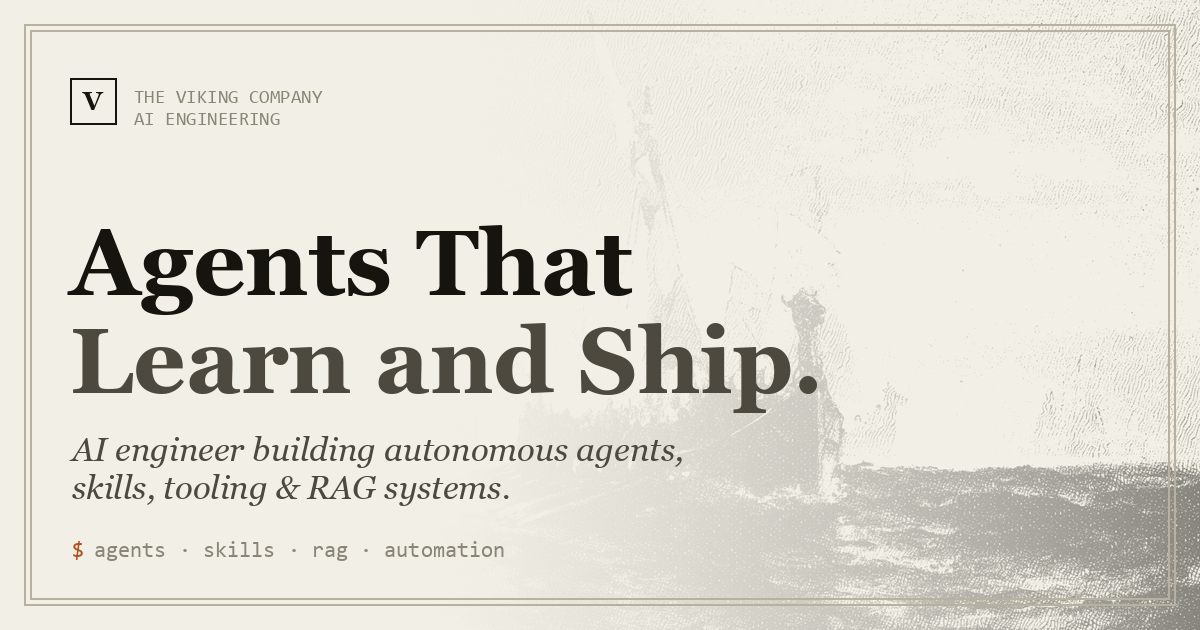
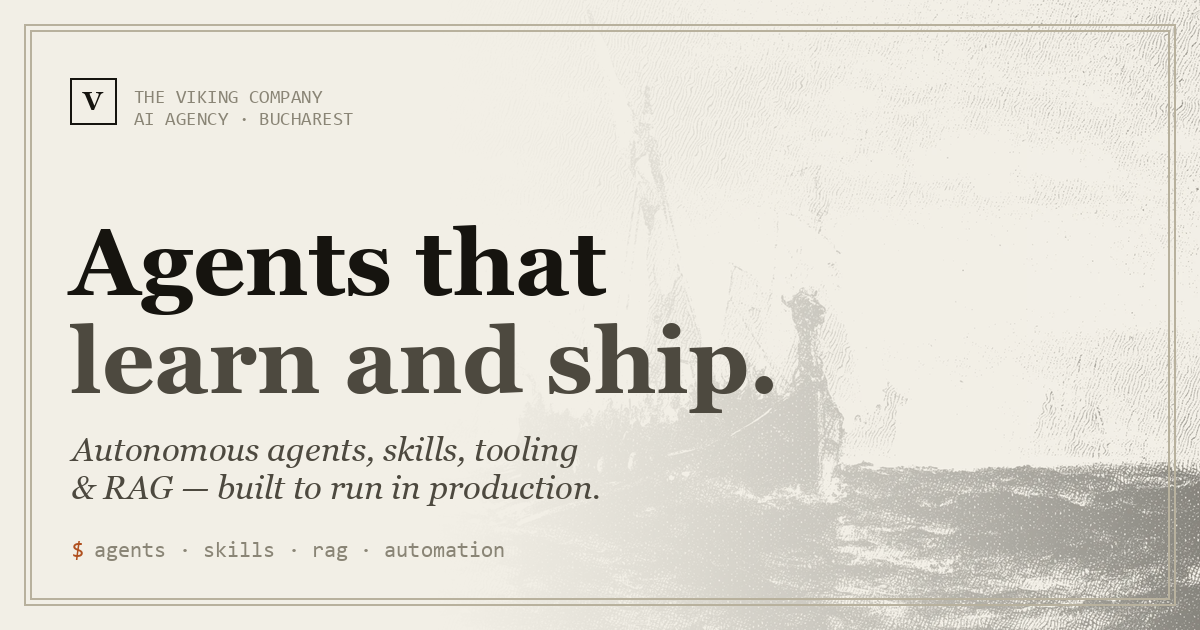
OG image: lead with The Viking Company AI Agency + 'Agents that learn and ship.'

diff --git a/app/layout.tsx b/app/layout.tsx
@@ -64,7 +64,7 @@ export const metadata: Metadata = {
         url: "/og.png",
         width: 1200,
         height: 630,
-        alt: "The Viking Company — AI engineering: agents, skills, and RAG",
+        alt: "The Viking Company AI Agency — agents that learn and ship",
       },
     ],
   },

diff --git a/assets/make_og.py b/assets/make_og.py
@@ -59,15 +59,15 @@ d.text((mx + 23, my + 23), "V", font=vc, fill=INK, anchor="mm")
 
 # eyebrow
 d.text((mx + 64, my + 10), "THE VIKING COMPANY", font=mono_sm, fill=INK_FAINT)
-d.text((mx + 64, my + 32), "AI ENGINEERING", font=mono_sm, fill=INK_FAINT)
+d.text((mx + 64, my + 32), "AI AGENCY · BUCHAREST", font=mono_sm, fill=INK_FAINT)
 
 # --- headline ---
-d.text((70, 210), "Agents That", font=serif_b, fill=INK)
-d.text((70, 308), "Learn and Ship.", font=serif_b, fill=INK_SOFT)
+d.text((70, 210), "Agents that", font=serif_b, fill=INK)
+d.text((70, 308), "learn and ship.", font=serif_b, fill=INK_SOFT)
 
 # tagline
-d.text((72, 430), "AI engineer building autonomous agents,", font=serif_i, fill=INK_SOFT)
-d.text((72, 468), "skills, tooling & RAG systems.", font=serif_i, fill=INK_SOFT)
+d.text((72, 430), "Autonomous agents, skills, tooling", font=serif_i, fill=INK_SOFT)
+d.text((72, 468), "& RAG — built to run in production.", font=serif_i, fill=INK_SOFT)
 
 # --- bottom mono strip with accent prompt ---
 by = 540